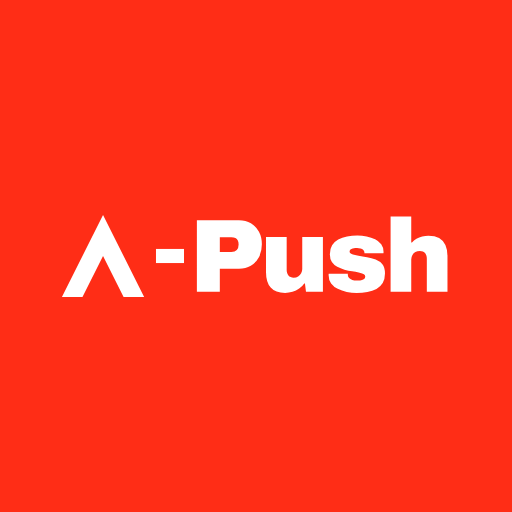
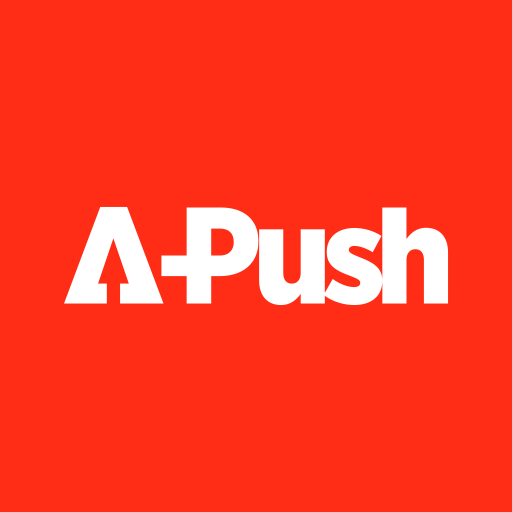
ロゴを新しいA+Pushに差し替え（ナビのロゴ・アプリのアイコン・ファビコン）

Changed region(s): [[0.125, 0.4062, 0.875, 0.5938]]

diff --git a/words/index.html b/words/index.html
@@ -132,8 +132,10 @@
 </style>
 </head>
 <body data-tab="wd">
+<svg width="0" height="0" style="position:absolute" aria-hidden="true"><symbol id="aplogo" viewBox="0 0 228.41 58.35"><polygon points="21.57 0 0 57.45 16.22 57.45 25.48 57.45 25.48 45.57 20.25 45.57 29.37 18.69 38.55 45.57 33.35 45.57 33.35 57.45 42.61 57.45 59.18 57.45 37.53 0 21.57 0"/><path d="M93.35.33h-20.4v28.56h-15v12.25h15v16.31h14.61v-16.31h5.63c12.49-.16,22.44-6.95,22.44-20.66v-.33C115.62,7.34,106.81.33,93.35.33ZM100.94,21.05c0,4.81-3.1,7.83-8.24,7.83h-5.14v-16h5.06c5.3,0,8.32,2.69,8.32,7.92v.25Z"/><path d="M215.36,12.4c-5.63,0-9.22,3.18-11.67,6.69V.33h-14.36v43.41c0-7.51-5.39-10.77-13.38-13.79-4.32-1.79-6.53-2.69-6.53-4.32v-.16c0-1.22,1.06-2.28,3.35-2.28,3.18,0,7.34,1.55,10.85,3.75l5.22-9.71c-4.9-3.18-10.69-4.73-16.16-4.73-9.63,0-16.4,5.3-16.4,14.2v.16c0,8,5.71,11.1,13.47,13.95,4.41,1.71,6.45,2.53,6.45,4.24v.16c0,1.39-1.14,2.45-3.59,2.45-3.92,0-8.49-1.79-12.81-4.81l-4.66,8.26V13.3h-14.36v26.03c0,4.08-2.2,6.28-5.3,6.28s-5.06-2.2-5.06-6.28V13.3h-14.36v30.44c0,8.98,4.81,14.61,13.06,14.61,5.63,0,9.22-3.18,11.67-6.69v5.79h14.36v-4.55c5.54,3.86,11.77,5.44,17.56,5.44,9.96,0,16.65-5.22,16.65-14.44v13.55h14.36v-26.03c0-4.08,2.2-6.28,5.3-6.28s5.06,2.2,5.06,6.28v26.03h14.36v-30.44c0-8.98-4.81-14.61-13.06-14.61Z"/></symbol></svg>
+
 <main class="screen">
-  <div class="nav"><span class="navl"><span class="mini">単語</span></span><span class="navr"><button class="pill press" id="btn-set">設定</button><button class="pill press" id="btn-howto">やり方</button></span></div>
+  <div class="nav"><span class="navl"><svg class="aplogo" viewBox="0 0 228.41 58.35" fill="currentColor" role="img" aria-label="A-PUSH"><use href="#aplogo"/></svg><span class="mini">単語</span></span><span class="navr"><button class="pill press" id="btn-set">設定</button><button class="pill press" id="btn-howto">やり方</button></span></div>
   <h1 class="large">単語</h1>
   <p class="sub" id="title" hidden></p>
 

diff --git a/index.html b/index.html
@@ -116,8 +116,10 @@ img{max-width:100%}
 </style>
 </head>
 <body data-tab="sp">
+<svg width="0" height="0" style="position:absolute" aria-hidden="true"><symbol id="aplogo" viewBox="0 0 228.41 58.35"><polygon points="21.57 0 0 57.45 16.22 57.45 25.48 57.45 25.48 45.57 20.25 45.57 29.37 18.69 38.55 45.57 33.35 45.57 33.35 57.45 42.61 57.45 59.18 57.45 37.53 0 21.57 0"/><path d="M93.35.33h-20.4v28.56h-15v12.25h15v16.31h14.61v-16.31h5.63c12.49-.16,22.44-6.95,22.44-20.66v-.33C115.62,7.34,106.81.33,93.35.33ZM100.94,21.05c0,4.81-3.1,7.83-8.24,7.83h-5.14v-16h5.06c5.3,0,8.32,2.69,8.32,7.92v.25Z"/><path d="M215.36,12.4c-5.63,0-9.22,3.18-11.67,6.69V.33h-14.36v43.41c0-7.51-5.39-10.77-13.38-13.79-4.32-1.79-6.53-2.69-6.53-4.32v-.16c0-1.22,1.06-2.28,3.35-2.28,3.18,0,7.34,1.55,10.85,3.75l5.22-9.71c-4.9-3.18-10.69-4.73-16.16-4.73-9.63,0-16.4,5.3-16.4,14.2v.16c0,8,5.71,11.1,13.47,13.95,4.41,1.71,6.45,2.53,6.45,4.24v.16c0,1.39-1.14,2.45-3.59,2.45-3.92,0-8.49-1.79-12.81-4.81l-4.66,8.26V13.3h-14.36v26.03c0,4.08-2.2,6.28-5.3,6.28s-5.06-2.2-5.06-6.28V13.3h-14.36v30.44c0,8.98,4.81,14.61,13.06,14.61,5.63,0,9.22-3.18,11.67-6.69v5.79h14.36v-4.55c5.54,3.86,11.77,5.44,17.56,5.44,9.96,0,16.65-5.22,16.65-14.44v13.55h14.36v-26.03c0-4.08,2.2-6.28,5.3-6.28s5.06,2.2,5.06,6.28v26.03h14.36v-30.44c0-8.98-4.81-14.61-13.06-14.61Z"/></symbol></svg>
+
 <main class="screen">
-  <div class="nav"><span class="navl"><span class="mini">話す</span></span><button class="pill" id="btn-how" aria-haspopup="dialog">やり方</button></div>
+  <div class="nav"><span class="navl"><svg class="aplogo" viewBox="0 0 228.41 58.35" fill="currentColor" role="img" aria-label="A-PUSH"><use href="#aplogo"/></svg><span class="mini">話す</span></span><button class="pill" id="btn-how" aria-haspopup="dialog">やり方</button></div>
   <h1 class="large">話す</h1>
 
   <div class="seg" id="tabs" role="group" aria-label="種目">

diff --git a/shadowing/index.html b/shadowing/index.html
@@ -79,8 +79,10 @@ h2{font-size:16px;font-weight:700;margin:0 0 6px}
 </style>
 </head>
 <body data-tab="sh">
+<svg width="0" height="0" style="position:absolute" aria-hidden="true"><symbol id="aplogo" viewBox="0 0 228.41 58.35"><polygon points="21.57 0 0 57.45 16.22 57.45 25.48 57.45 25.48 45.57 20.25 45.57 29.37 18.69 38.55 45.57 33.35 45.57 33.35 57.45 42.61 57.45 59.18 57.45 37.53 0 21.57 0"/><path d="M93.35.33h-20.4v28.56h-15v12.25h15v16.31h14.61v-16.31h5.63c12.49-.16,22.44-6.95,22.44-20.66v-.33C115.62,7.34,106.81.33,93.35.33ZM100.94,21.05c0,4.81-3.1,7.83-8.24,7.83h-5.14v-16h5.06c5.3,0,8.32,2.69,8.32,7.92v.25Z"/><path d="M215.36,12.4c-5.63,0-9.22,3.18-11.67,6.69V.33h-14.36v43.41c0-7.51-5.39-10.77-13.38-13.79-4.32-1.79-6.53-2.69-6.53-4.32v-.16c0-1.22,1.06-2.28,3.35-2.28,3.18,0,7.34,1.55,10.85,3.75l5.22-9.71c-4.9-3.18-10.69-4.73-16.16-4.73-9.63,0-16.4,5.3-16.4,14.2v.16c0,8,5.71,11.1,13.47,13.95,4.41,1.71,6.45,2.53,6.45,4.24v.16c0,1.39-1.14,2.45-3.59,2.45-3.92,0-8.49-1.79-12.81-4.81l-4.66,8.26V13.3h-14.36v26.03c0,4.08-2.2,6.28-5.3,6.28s-5.06-2.2-5.06-6.28V13.3h-14.36v30.44c0,8.98,4.81,14.61,13.06,14.61,5.63,0,9.22-3.18,11.67-6.69v5.79h14.36v-4.55c5.54,3.86,11.77,5.44,17.56,5.44,9.96,0,16.65-5.22,16.65-14.44v13.55h14.36v-26.03c0-4.08,2.2-6.28,5.3-6.28s5.06,2.2,5.06,6.28v26.03h14.36v-30.44c0-8.98-4.81-14.61-13.06-14.61Z"/></symbol></svg>
+
 <main class="screen">
-  <div class="nav"><span class="navl"><span class="mini">シャドーイング</span></span><button class="pill" id="howto">やり方</button></div>
+  <div class="nav"><span class="navl"><svg class="aplogo" viewBox="0 0 228.41 58.35" fill="currentColor" role="img" aria-label="A-PUSH"><use href="#aplogo"/></svg><span class="mini">シャドーイング</span></span><button class="pill" id="howto">やり方</button></div>
 
   <!-- 一覧 -->
   <section id="home">

diff --git a/plan/index.html b/plan/index.html
@@ -38,8 +38,10 @@ a.row{text-decoration:none;color:var(--ink)}
 </style>
 </head>
 <body data-tab="home">
+<svg width="0" height="0" style="position:absolute" aria-hidden="true"><symbol id="aplogo" viewBox="0 0 228.41 58.35"><polygon points="21.57 0 0 57.45 16.22 57.45 25.48 57.45 25.48 45.57 20.25 45.57 29.37 18.69 38.55 45.57 33.35 45.57 33.35 57.45 42.61 57.45 59.18 57.45 37.53 0 21.57 0"/><path d="M93.35.33h-20.4v28.56h-15v12.25h15v16.31h14.61v-16.31h5.63c12.49-.16,22.44-6.95,22.44-20.66v-.33C115.62,7.34,106.81.33,93.35.33ZM100.94,21.05c0,4.81-3.1,7.83-8.24,7.83h-5.14v-16h5.06c5.3,0,8.32,2.69,8.32,7.92v.25Z"/><path d="M215.36,12.4c-5.63,0-9.22,3.18-11.67,6.69V.33h-14.36v43.41c0-7.51-5.39-10.77-13.38-13.79-4.32-1.79-6.53-2.69-6.53-4.32v-.16c0-1.22,1.06-2.28,3.35-2.28,3.18,0,7.34,1.55,10.85,3.75l5.22-9.71c-4.9-3.18-10.69-4.73-16.16-4.73-9.63,0-16.4,5.3-16.4,14.2v.16c0,8,5.71,11.1,13.47,13.95,4.41,1.71,6.45,2.53,6.45,4.24v.16c0,1.39-1.14,2.45-3.59,2.45-3.92,0-8.49-1.79-12.81-4.81l-4.66,8.26V13.3h-14.36v26.03c0,4.08-2.2,6.28-5.3,6.28s-5.06-2.2-5.06-6.28V13.3h-14.36v30.44c0,8.98,4.81,14.61,13.06,14.61,5.63,0,9.22-3.18,11.67-6.69v5.79h14.36v-4.55c5.54,3.86,11.77,5.44,17.56,5.44,9.96,0,16.65-5.22,16.65-14.44v13.55h14.36v-26.03c0-4.08,2.2-6.28,5.3-6.28s5.06,2.2,5.06,6.28v26.03h14.36v-30.44c0-8.98-4.81-14.61-13.06-14.61Z"/></symbol></svg>
+
 <main class="screen">
-  <div class="nav"><span class="navl"><span class="mini">今日</span></span></div>
+  <div class="nav"><span class="navl"><svg class="aplogo" viewBox="0 0 228.41 58.35" fill="currentColor" role="img" aria-label="A-PUSH"><use href="#aplogo"/></svg><span class="mini">今日</span></span></div>
   <p class="eyebrow" id="today-date"></p>
   <h1 class="large">今日</h1>
   <p class="sub" id="who" hidden></p>
